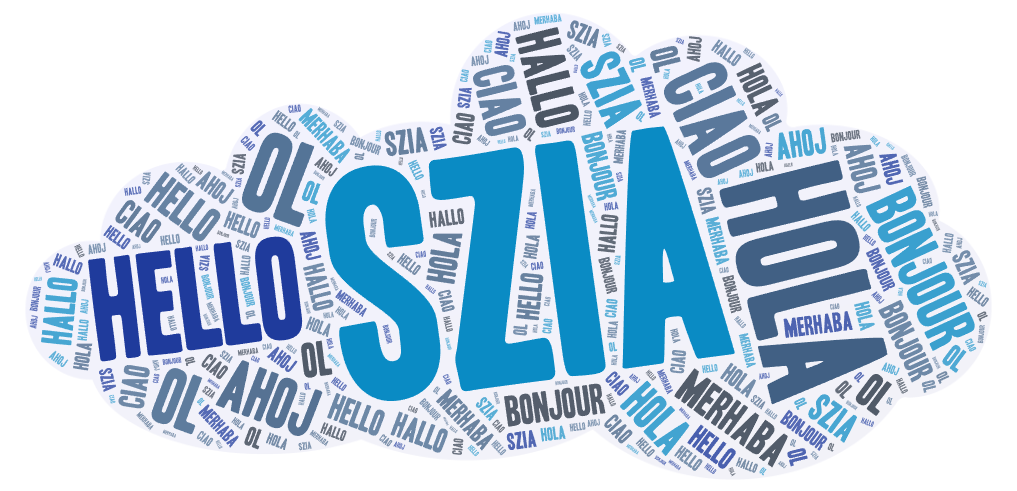
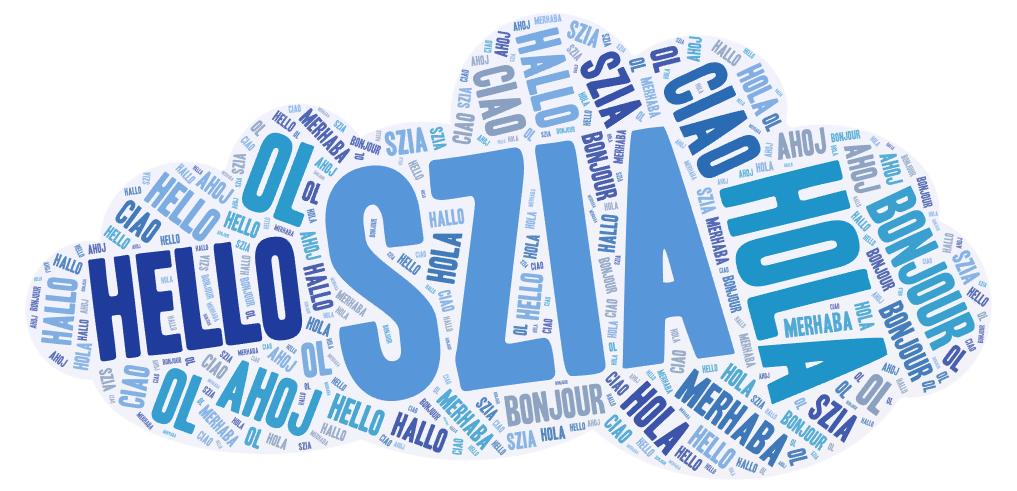
designed the infomr view

diff --git a/Nyelvtanulas/Nyelvtanulas/wwwroot/css/SajatCSS.css b/Nyelvtanulas/Nyelvtanulas/wwwroot/css/SajatCSS.css
@@ -1,6 +1,6 @@
 body {
     margin-bottom: auto;
-    background-color: rgb(161, 186, 214);
+    background-color: rgb(173, 216, 230);
 }
 
 hr {
